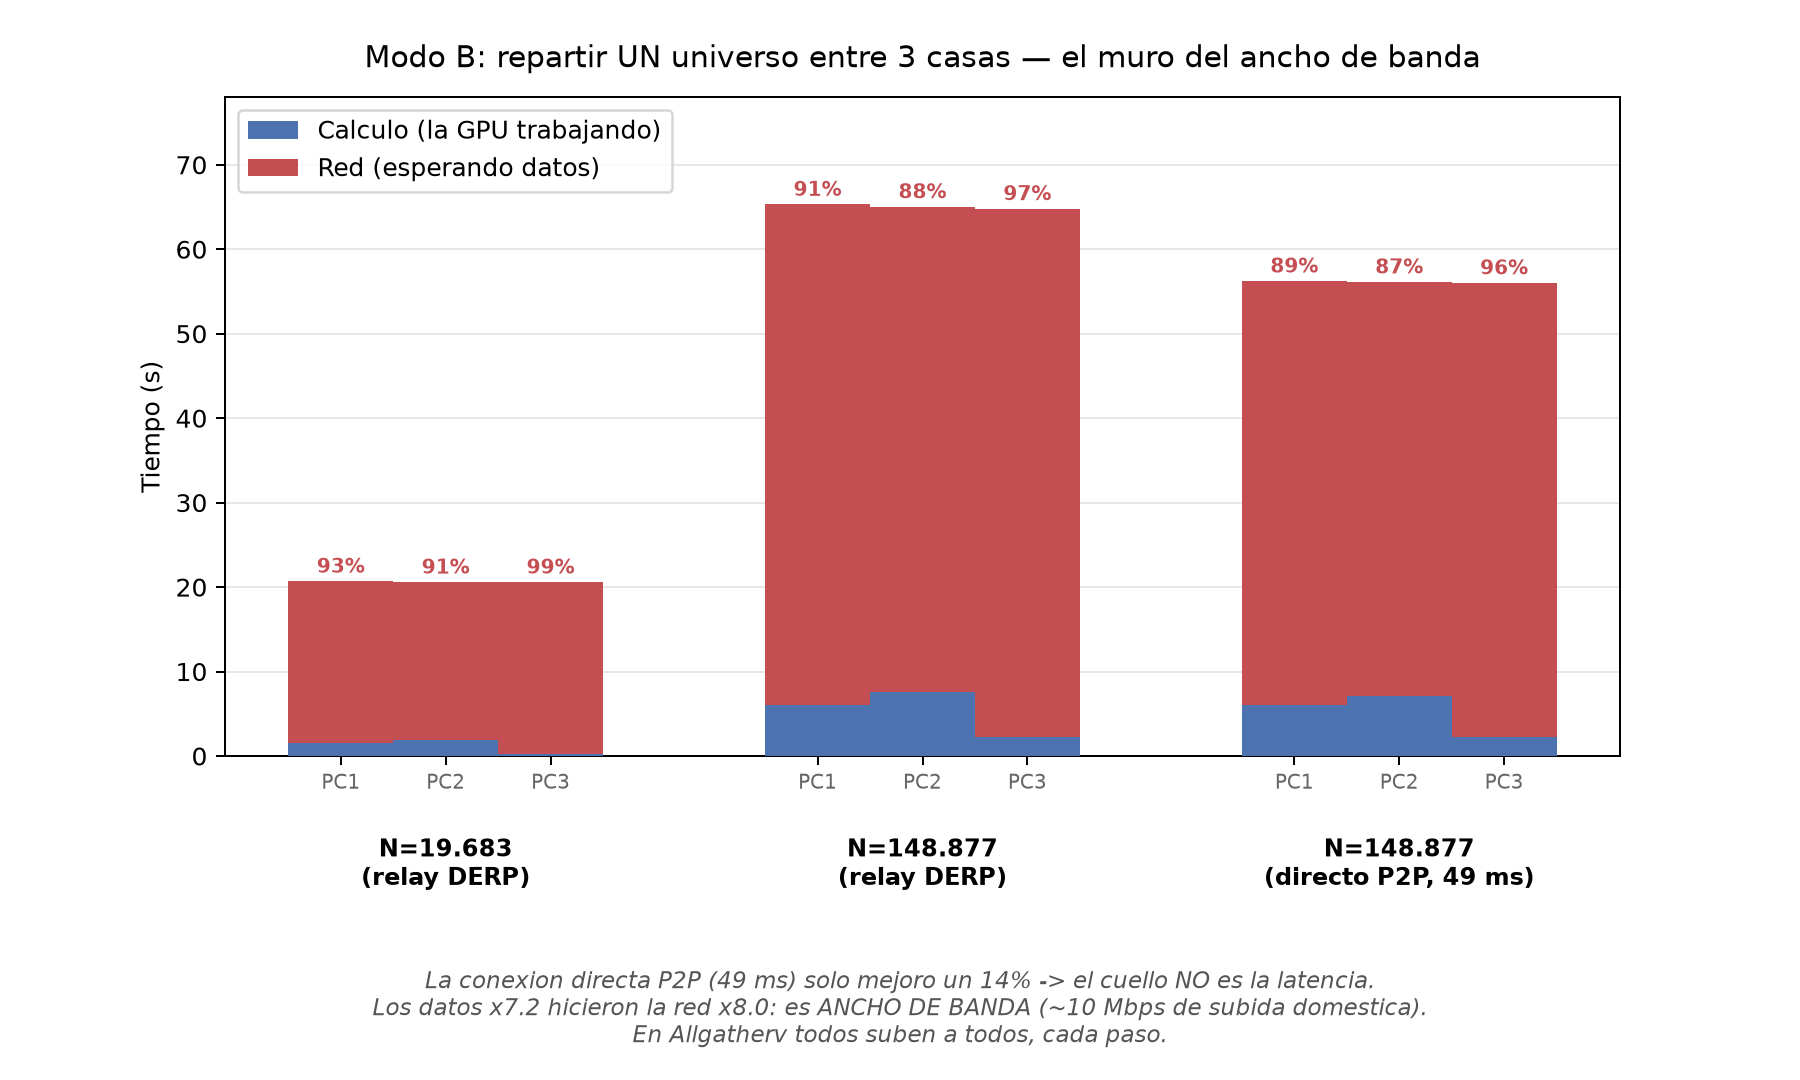
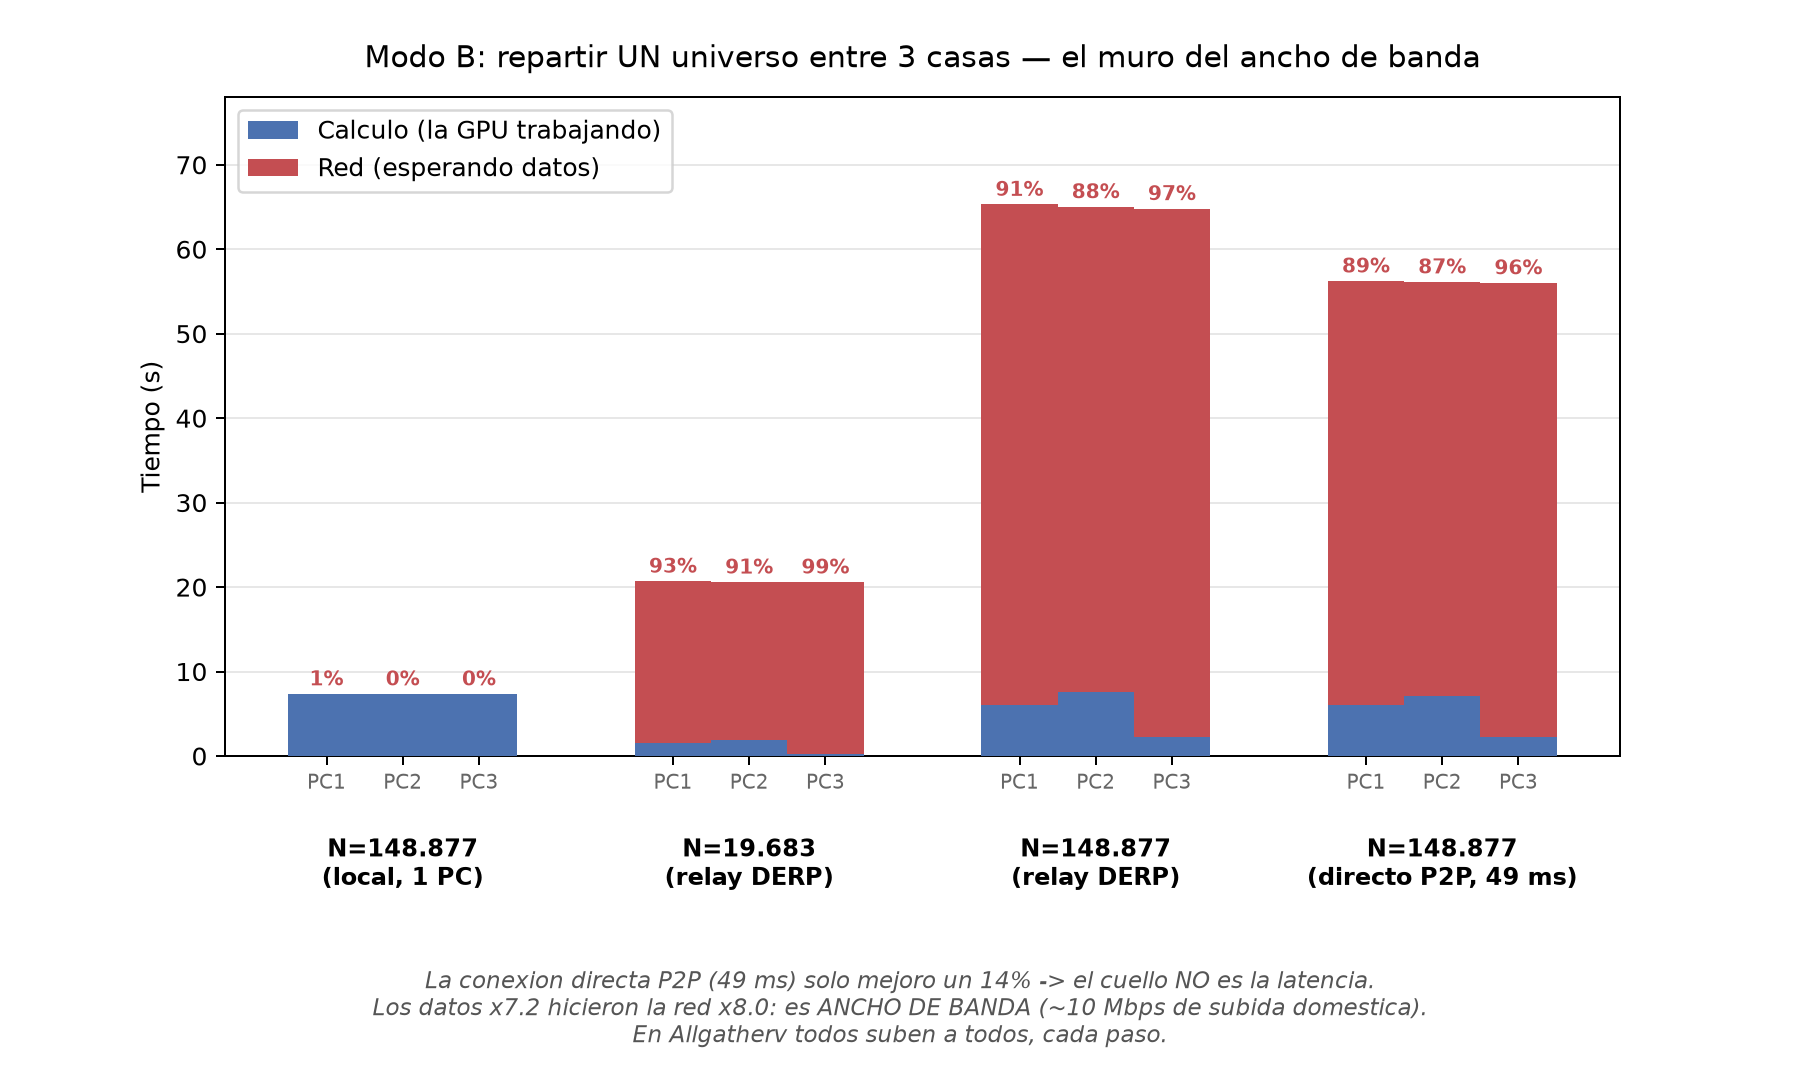
Modo B: medida la referencia local, que faltaba
Se creia "local, 3 procesos: 0.74 s". Medido de nuevo (mpiexec -n 3,
N=148.877, 20 pasos, misma config que las corridas por internet): son
7.36 s, con la red en el 1%. El dato viejo estaba mal por un factor 10.

Importa porque es la referencia con la que se dice cuanto cuesta la red:
repartir por internet sale 7.6x mas lento que hacerlo en un solo PC
(8.9x via relay). Antes se afirmaba "27x", que no salia de ningun sitio.
La conclusion no cambia — el ancho de banda manda — pero el numero si.

Nuevo modo_b_penalizacion() y el escenario local en MODO_B, con lo que
el grafico del muro gana la barra de referencia: 1% de red en un PC
frente al 87-98% entre tres casas.

diff --git a/scripts/datos_medidos.py b/scripts/datos_medidos.py
@@ -84,6 +84,15 @@ RANKS = ["PC1 · RTX 4060", "PC2 · RTX 3050", "PC3 · AMD RX 6600 XT"]
 # y apilarlos en un grafico enganaria. Por rank si cuadra: calculo + red = total.
 MODO_B = [
     {
+        # La referencia: mismo codigo, mismo N, pero SIN red. Los 3 procesos
+        # comparten la 4060 de PC1, asi que no hay 3 GPUs de verdad — es la
+        # medida de "cuanto costaria esto sin salir de casa".
+        #   mpiexec -n 3 python scripts/nbody_distribuido.py --n 150000 --steps 20 --backend auto
+        "etiqueta": "N=148.877\n(local, 1 PC)",
+        "n": 148877, "pasos": 20, "datos_mb_paso": 3.6, "local": True,
+        "ranks": [(7.29, 0.08, 7.36), (7.33, 0.03, 7.36), (7.34, 0.02, 7.36)],
+    },
+    {
         "etiqueta": "N=19.683\n(relay DERP)",
         "n": 19683, "pasos": 50, "datos_mb_paso": 0.5,
         # rank: (calculo_s, red_s, total_s)
@@ -100,6 +109,21 @@ MODO_B = [
         "ranks": [(6.06, 50.18, 56.25), (7.12, 49.02, 56.24), (2.24, 53.79, 56.25)],
     },
 ]
+
+def modo_b_penalizacion():
+    """Cuanto mas lento sale repartir por internet que hacerlo en un solo PC.
+
+    Comparables: mismo N (148.877), mismos 20 pasos, mismo codigo."""
+    local = next(e for e in MODO_B if e.get("local"))
+    t_local = max(r[2] for r in local["ranks"])
+    out = []
+    for e in MODO_B:
+        if e.get("local") or e["n"] != local["n"]:
+            continue
+        t = max(r[2] for r in e["ranks"])
+        out.append((e["etiqueta"], t, t / t_local))
+    return t_local, out
+
 
 # La conclusion, con numeros:
 #   - La conexion directa (49 ms de latencia, sin relay) solo mejoro un 14%.